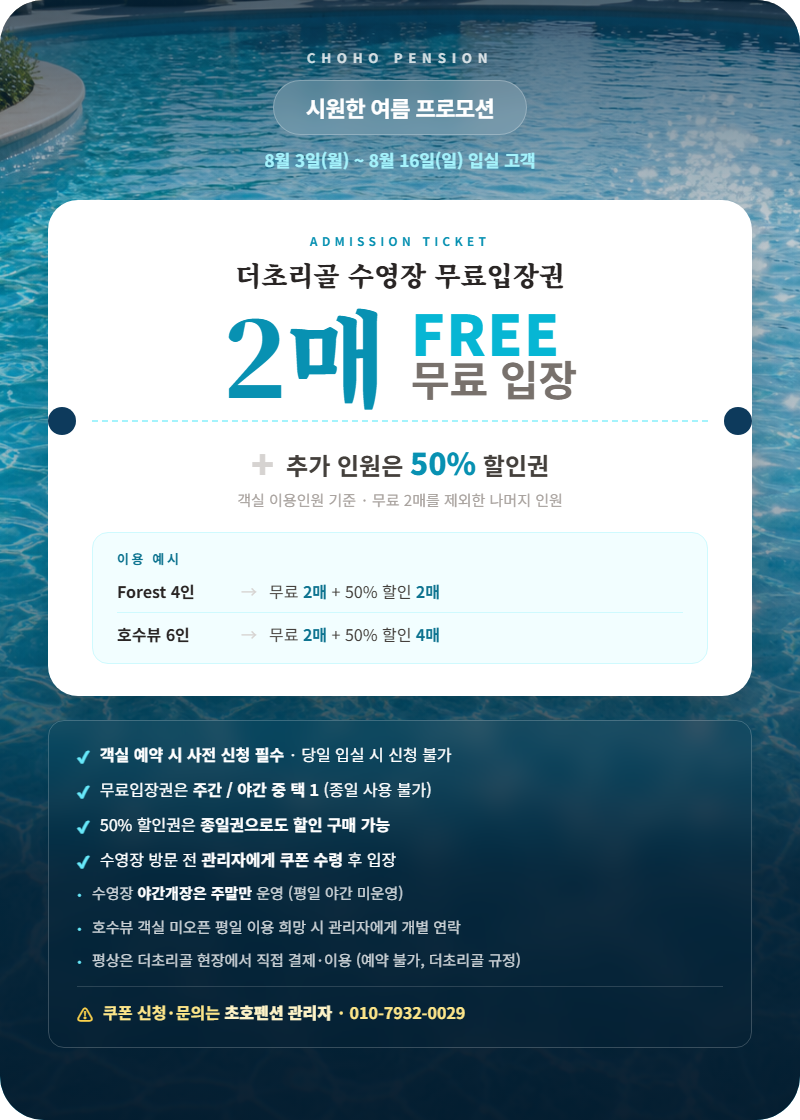
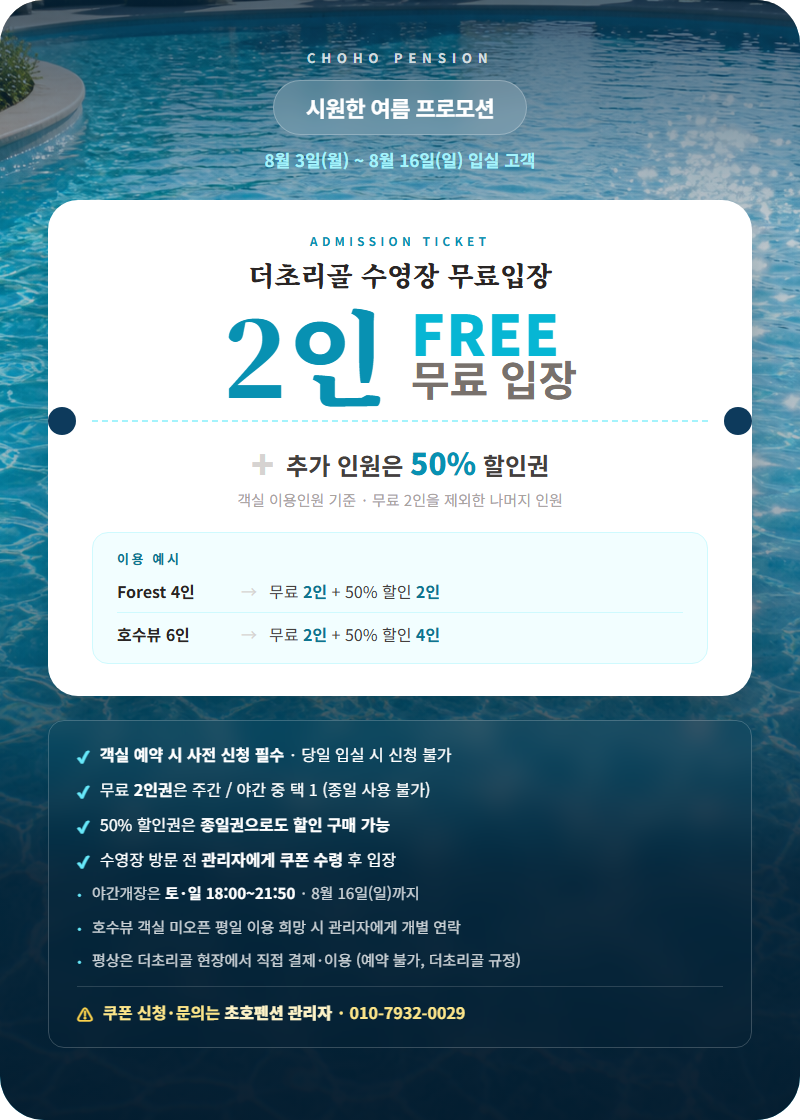
fix: 여름 프로모션 "무료입장권 2매" → "무료입장 2인권" 전면 교체
인쇄 디자인이 '2인 무료이용권'이라 표기를 통일. 홈 팝업 이미지가
로컬에만 갱신돼 있어 라이브에는 여전히 2매가 노출되던 상태 → 배포 포함.

- 팝업 이미지(popup-summer-promo-800.png) 2인 버전으로 교체
- PoolDiscountPopup alt/주석, 저널 스크립트 본문 문구 통일
- 와이어프레임 3종(팝업·IG 1080·검토시트) 2매→2인
- .gitignore에 .env.* / !.env.example 추가

diff --git a/wireframes/review-summer-pool-promo.html b/wireframes/review-summer-pool-promo.html
@@ -50,7 +50,7 @@
         <p class="text-cyan-400 text-xs font-bold tracking-[0.3em] mb-2">CHOHO&nbsp;2026</p>
         <h1 class="text-white text-3xl font-black">시원한 여름 프로모션 — 산출물 통합 검토</h1>
         <p class="text-slate-400 mt-2">
-          8월 3일(월) ~ 8월 16일(일) 입실 고객 · 더초리골 수영장 무료입장권 2매 + 추가 인원 50%
+          8월 3일(월) ~ 8월 16일(일) 입실 고객 · 더초리골 수영장 무료입장 2인권 + 추가 인원 50%
           할인권
         </p>
       </header>
@@ -199,7 +199,7 @@
             >공지</span
           >
           <h3 class="text-2xl md:text-3xl font-black leading-snug">
-            시원한 여름 프로모션 — 더초리골 수영장 무료입장권 안내
+            시원한 여름 프로모션 — 더초리골 수영장 무료입장 2인권 안내
           </h3>
           <p class="text-stone-400 text-sm mt-2 num">2026-08-02</p>
 
@@ -212,8 +212,8 @@
           <p
             class="text-stone-500 bg-stone-50 border-l-4 border-cyan-400 px-5 py-4 rounded-r-lg leading-relaxed"
           >
-            8월 3일(월)부터 8월 16일(일)까지 입실하시는 고객님께 더초리골 수영장 무료입장권 2매를
-            드립니다. 무료 2매를 제외한 나머지 인원은 50% 할인권으로 제공되며, 객실 예약 시 사전
+            8월 3일(월)부터 8월 16일(일)까지 입실하시는 고객님께 더초리골 수영장 무료입장 2인권을
+            드립니다. 무료 2인을 제외한 나머지 인원은 50% 할인권으로 제공되며, 객실 예약 시 사전
             신청이 필요합니다.
           </p>
 
@@ -347,12 +347,12 @@
         "8월 3일(월)부터 8월 16일(일)까지 입실하시는 고객님께 더초리골 수영장 입장권을 드립니다.",
         "",
         "■ 제공 혜택",
-        "- 무료입장권 2매",
-        "- 무료 2매를 제외한 나머지 인원은 50% 할인권으로 제공 (객실 이용인원 기준)",
+        "- 무료입장 2인권 (2인 무료 입장)",
+        "- 무료 2인을 제외한 나머지 인원은 50% 할인권으로 제공 (객실 이용인원 기준)",
         "",
         "■ 이용 예시",
-        "- Forest 4인 예약 → 무료입장권 2매 + 50% 할인권 2매",
-        "- 호수뷰 객실 6인 예약 → 무료입장권 2매 + 50% 할인권 4매",
+        "- Forest 4인 예약 → 무료 2인 + 50% 할인권 2인",
+        "- 호수뷰 객실 6인 예약 → 무료 2인 + 50% 할인권 4인",
         "",
         "■ 신청 방법",
         "- 객실 예약 시 사전 신청해 주셔야 합니다.",
@@ -360,9 +360,9 @@
         "- 수영장 방문 전 초호펜션 관리자에게 쿠폰을 수령하신 뒤 입장해 주세요.",
         "",
         "■ 이용 조건",
-        "- 무료입장권은 주간 / 야간 중 하나를 선택해 사용하실 수 있습니다. (종일 사용 불가)",
+        "- 무료 2인권은 주간 / 야간 중 하나를 선택해 사용하실 수 있습니다. (종일 사용 불가)",
         "- 50% 할인권은 종일권 구매 시에도 할인 적용이 가능합니다.",
-        "- 수영장 야간개장은 주말에만 운영합니다. (평일 야간 미운영)",
+        "- 수영장 야간개장은 토·일 18:00~21:50에 운영하며, 8월 16일(일)까지입니다. (평일 야간 미운영)",
         "- 호수뷰 객실이 미오픈인 평일에 이용을 원하시면 관리자에게 개별 연락 부탁드립니다.",
         "- 평상은 더초리골 현장에서 직접 결제·이용하시며 사전 예약은 불가합니다. (더초리골 규정)",
         "",
@@ -378,16 +378,16 @@
         "8월 16일(일)까지",
         "입실하시는 고객님께",
         "더초리골 수영장",
-        "무료입장권 2매를 드립니다.",
+        "무료입장 2인권을 드립니다.",
         "",
-        "무료 2매를 제외한",
+        "무료 2인을 제외한",
         "나머지 인원은",
         "50% 할인권으로 제공돼요.",
         "(객실 이용인원 기준)",
         "",
         "▪ 이용 예시",
-        "Forest 4인 → 무료 2매 + 50% 할인 2매",
-        "호수뷰 6인 → 무료 2매 + 50% 할인 4매",
+        "Forest 4인 → 무료 2인 + 50% 할인 2인",
+        "호수뷰 6인 → 무료 2인 + 50% 할인 4인",
         "",
         "▪ 신청 방법",
         "객실 예약 시 사전 신청 필수",
@@ -396,7 +396,7 @@
         "쿠폰을 수령해 주세요.",
         "",
         "▪ 이용 조건",
-        "무료입장권은 주간/야간 중 택 1",
+        "무료 2인권은 주간/야간 중 택 1",
         "(종일 사용은 불가합니다)",
         "50% 할인권은 종일권 구매 시에도",
         "할인 적용이 가능합니다",

diff --git a/wireframes/popup-summer-pool-promo.html b/wireframes/popup-summer-pool-promo.html
@@ -46,7 +46,7 @@
           시원한 여름 프로모션 — 팝업 시안 (800×1120)
         </h1>
         <p class="text-slate-400 text-sm mb-8">
-          8.3(월)~8.16(일) 입실 고객 · 무료입장권 2매 + 추가 인원 50% 할인권
+          8.3(월)~8.16(일) 입실 고객 · 무료입장 2인권 + 추가 인원 50% 할인권
         </p>
       </div>
 
@@ -95,15 +95,15 @@
                 ADMISSION&nbsp;TICKET
               </p>
               <h3 class="serif text-stone-800 font-black text-[27px] leading-tight">
-                더초리골 수영장 무료입장권
+                더초리골 수영장 무료입장
               </h3>
 
-              <!-- 무료 2매 : '2'와 '매' 동일 크기 / 우측 FREE+무료입장 스택 높이 = '2매' 높이 -->
+              <!-- 무료 2인 : '2'와 '인' 동일 크기 / 우측 FREE+무료입장 스택 높이 = '2인' 높이 -->
               <div class="flex items-center justify-center gap-6 mt-4">
                 <span
                   class="serif font-black text-cyan-600 num"
                   style="font-size: 104px; line-height: 0.76"
-                  >2매</span
+                  >2인</span
                 >
                 <div class="text-left">
                   <p
@@ -138,7 +138,7 @@
                 </p>
               </div>
               <p class="text-stone-400 text-[15px] mt-1.5">
-                객실 이용인원 기준 · 무료 2매를 제외한 나머지 인원
+                객실 이용인원 기준 · 무료 2인을 제외한 나머지 인원
               </p>
 
               <!-- 이용 예시 -->
@@ -150,8 +150,8 @@
                   <span class="w-[112px] shrink-0 font-bold text-stone-800">Forest 4인</span>
                   <span class="text-stone-300">→</span>
                   <span
-                    >무료 <b class="text-cyan-700">2매</b> + 50% 할인
-                    <b class="text-cyan-700">2매</b></span
+                    >무료 <b class="text-cyan-700">2인</b> + 50% 할인
+                    <b class="text-cyan-700">2인</b></span
                   >
                 </div>
                 <div
@@ -160,8 +160,8 @@
                   <span class="w-[112px] shrink-0 font-bold text-stone-800">호수뷰 6인</span>
                   <span class="text-stone-300">→</span>
                   <span
-                    >무료 <b class="text-cyan-700">2매</b> + 50% 할인
-                    <b class="text-cyan-700">4매</b></span
+                    >무료 <b class="text-cyan-700">2인</b> + 50% 할인
+                    <b class="text-cyan-700">4인</b></span
                   >
                 </div>
               </div>
@@ -179,7 +179,7 @@
               </div>
               <div class="flex items-start gap-2.5 text-white text-[16px] leading-relaxed">
                 <span class="text-cyan-300 font-bold mt-0.5">✔</span>
-                <p>무료입장권은 <b>주간 / 야간 중 택 1</b> (종일 사용 불가)</p>
+                <p>무료 <b class="text-white">2인권</b>은 주간 / 야간 중 택 1 (종일 사용 불가)</p>
               </div>
               <div class="flex items-start gap-2.5 text-white text-[16px] leading-relaxed">
                 <span class="text-cyan-300 font-bold mt-0.5">✔</span>
@@ -191,7 +191,7 @@
               </div>
               <div class="flex items-start gap-2.5 text-white/80 text-[15px] leading-relaxed">
                 <span class="text-cyan-300 font-bold mt-0.5">·</span>
-                <p>수영장 <b class="text-white">야간개장은 주말만</b> 운영 (평일 야간 미운영)</p>
+                <p>야간개장은 <b class="text-white">토·일 18:00~21:50</b> · 8월 16일(일)까지</p>
               </div>
               <div class="flex items-start gap-2.5 text-white/80 text-[15px] leading-relaxed">
                 <span class="text-cyan-300 font-bold mt-0.5">·</span>

diff --git a/wireframes/ig-summer-pool-promo-1080.html b/wireframes/ig-summer-pool-promo-1080.html
@@ -78,15 +78,15 @@
               ADMISSION&nbsp;TICKET
             </p>
             <h3 class="serif text-stone-800 font-black text-[44px] leading-tight">
-              더초리골 수영장 무료입장권
+              더초리골 수영장 무료입장
             </h3>
 
-            <!-- '2'와 '매' 동일 크기 / 우측 FREE+무료입장 스택 높이 = '2매' 높이 -->
+            <!-- 무료 2인 : '2'와 '인' 동일 크기 / 우측 FREE+무료입장 스택 높이 = '2인' 높이 -->
             <div class="flex items-center justify-center gap-9 mt-6">
               <span
                 class="serif font-black text-cyan-600 num"
                 style="font-size: 172px; line-height: 0.76"
-                >2매</span
+                >2인</span
               >
               <div class="text-left">
                 <p
@@ -118,7 +118,7 @@
               </p>
             </div>
             <p class="text-stone-400 text-[23px] mt-3">
-              객실 이용인원 기준 · 무료 2매를 제외한 나머지 인원
+              객실 이용인원 기준 · 무료 2인을 제외한 나머지 인원
             </p>
 
             <div class="mt-9 bg-cyan-50/70 border border-cyan-100 rounded-3xl px-10 py-7 text-left">
@@ -127,8 +127,8 @@
                 <span class="w-[185px] shrink-0 font-bold text-stone-800">Forest 4인</span>
                 <span class="text-stone-300">→</span>
                 <span
-                  >무료 <b class="text-cyan-700">2매</b> + 50% 할인
-                  <b class="text-cyan-700">2매</b></span
+                  >무료 <b class="text-cyan-700">2인</b> + 50% 할인
+                  <b class="text-cyan-700">2인</b></span
                 >
               </div>
               <div
@@ -137,8 +137,8 @@
                 <span class="w-[185px] shrink-0 font-bold text-stone-800">호수뷰 6인</span>
                 <span class="text-stone-300">→</span>
                 <span
-                  >무료 <b class="text-cyan-700">2매</b> + 50% 할인
-                  <b class="text-cyan-700">4매</b></span
+                  >무료 <b class="text-cyan-700">2인</b> + 50% 할인
+                  <b class="text-cyan-700">4인</b></span
                 >
               </div>
             </div>

diff --git a/src/components/PoolDiscountPopup.tsx b/src/components/PoolDiscountPopup.tsx
@@ -9,7 +9,7 @@ import Image from "next/image";
  * z 규칙: 오버레이 N / 닫기버튼 N+10. 다음으로 높은 게 FamilyCapacity(59/69)이고
  * SummerInsect·Spring의 닫기버튼이 z-60이라, 60이 아니라 70/80을 써야 안 겹친다.
  * 현재 내용: 2026 시원한 여름 프로모션 — 8/3(월)~8/16(일) 입실 고객
- *            무료입장권 2매 + 추가 인원 50% 할인권 (기존 투숙객 50% 할인 혜택 통합)
+ *            무료입장 2인권 + 추가 인원 50% 할인권 (기존 투숙객 50% 할인 혜택 통합)
  * 프로모션 종료 시: 이미지를 /images/pool/popup-pool-discount-800.png (상시 50% 할인, 800×800)
  *                  으로 되돌리거나 page.tsx에서 언마운트.
  */
@@ -52,7 +52,7 @@ export function PoolDiscountPopup() {
           {/* 800x800 팝업 이미지 */}
           <Image
             src="/images/pool/popup-summer-promo-800.png"
-            alt="시원한 여름 프로모션 - 8월 3일부터 8월 16일 입실 고객 대상 더초리골 수영장 무료입장권 2매, 추가 인원 50% 할인권"
+            alt="시원한 여름 프로모션 - 8월 3일부터 8월 16일 입실 고객 대상 더초리골 수영장 무료입장 2인권, 추가 인원 50% 할인권"
             width={800}
             height={1120}
             className="w-full h-auto drop-shadow-2xl"
